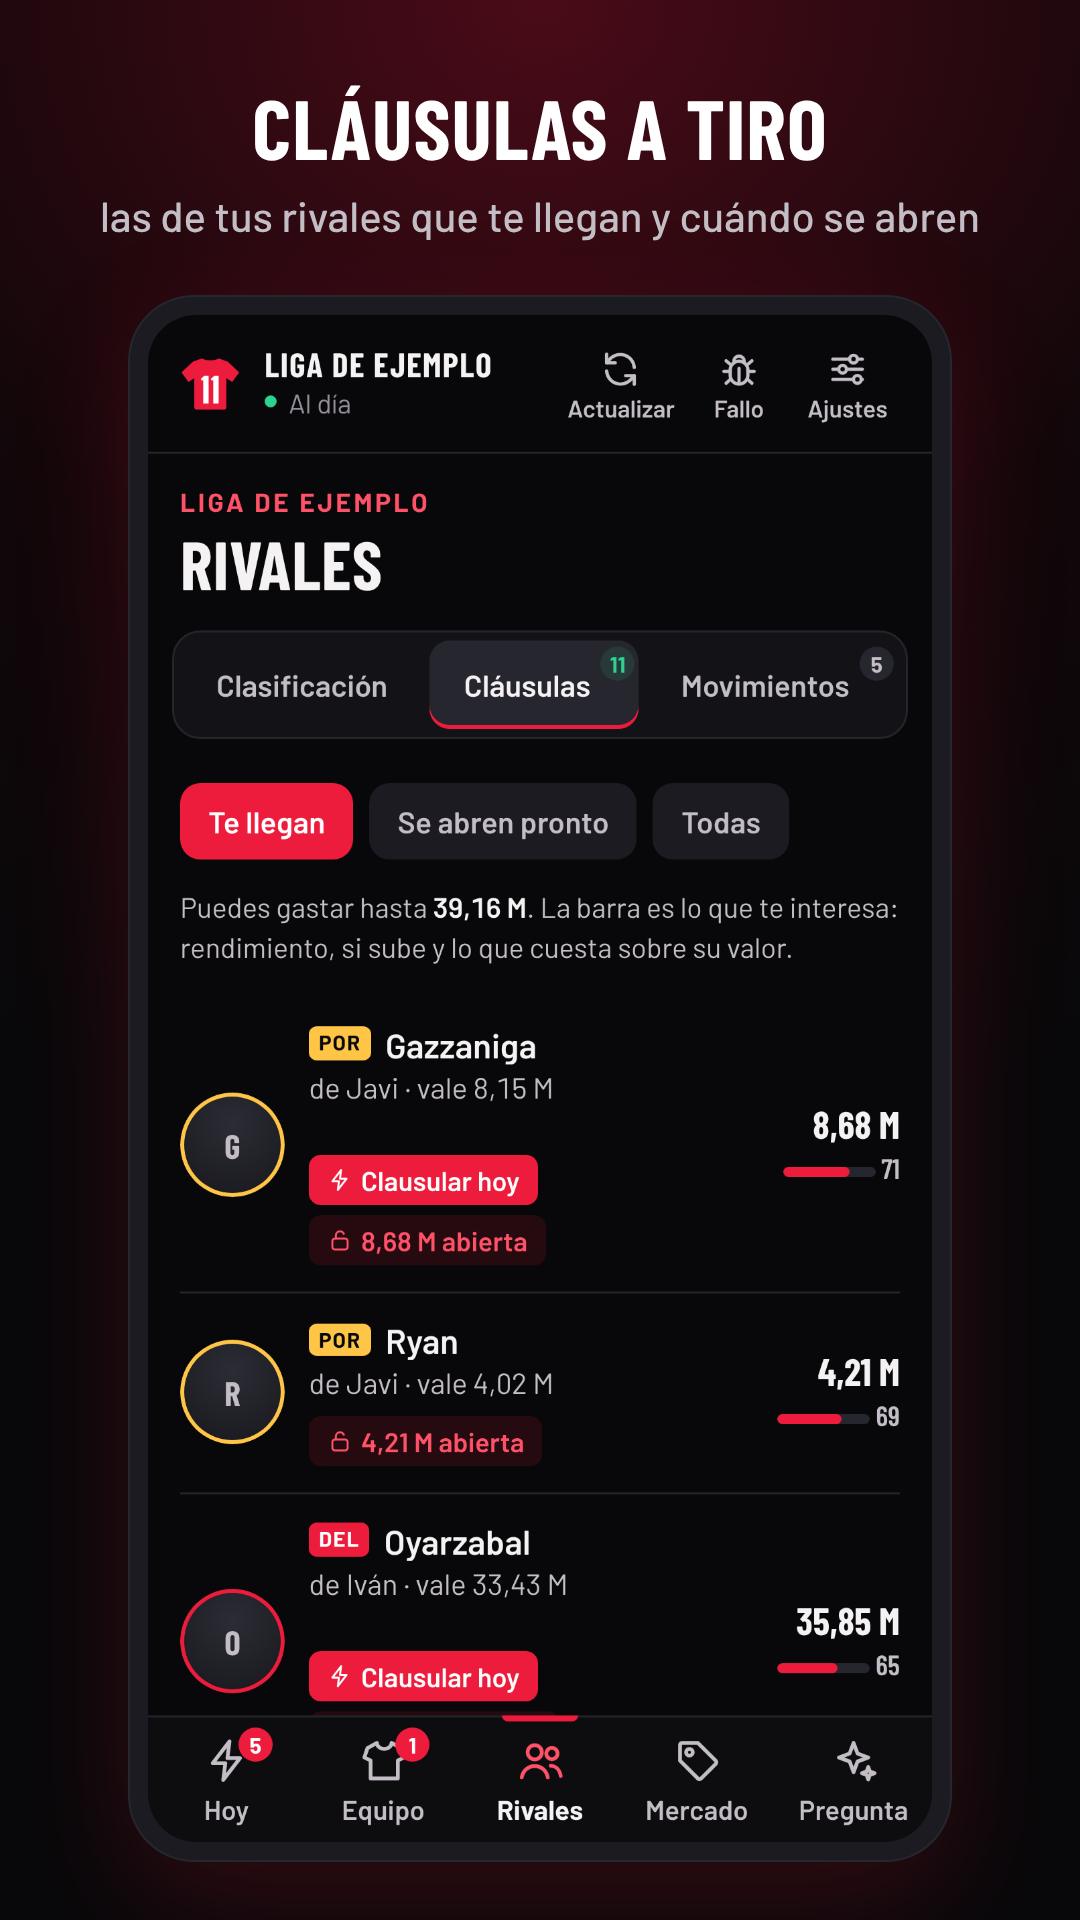
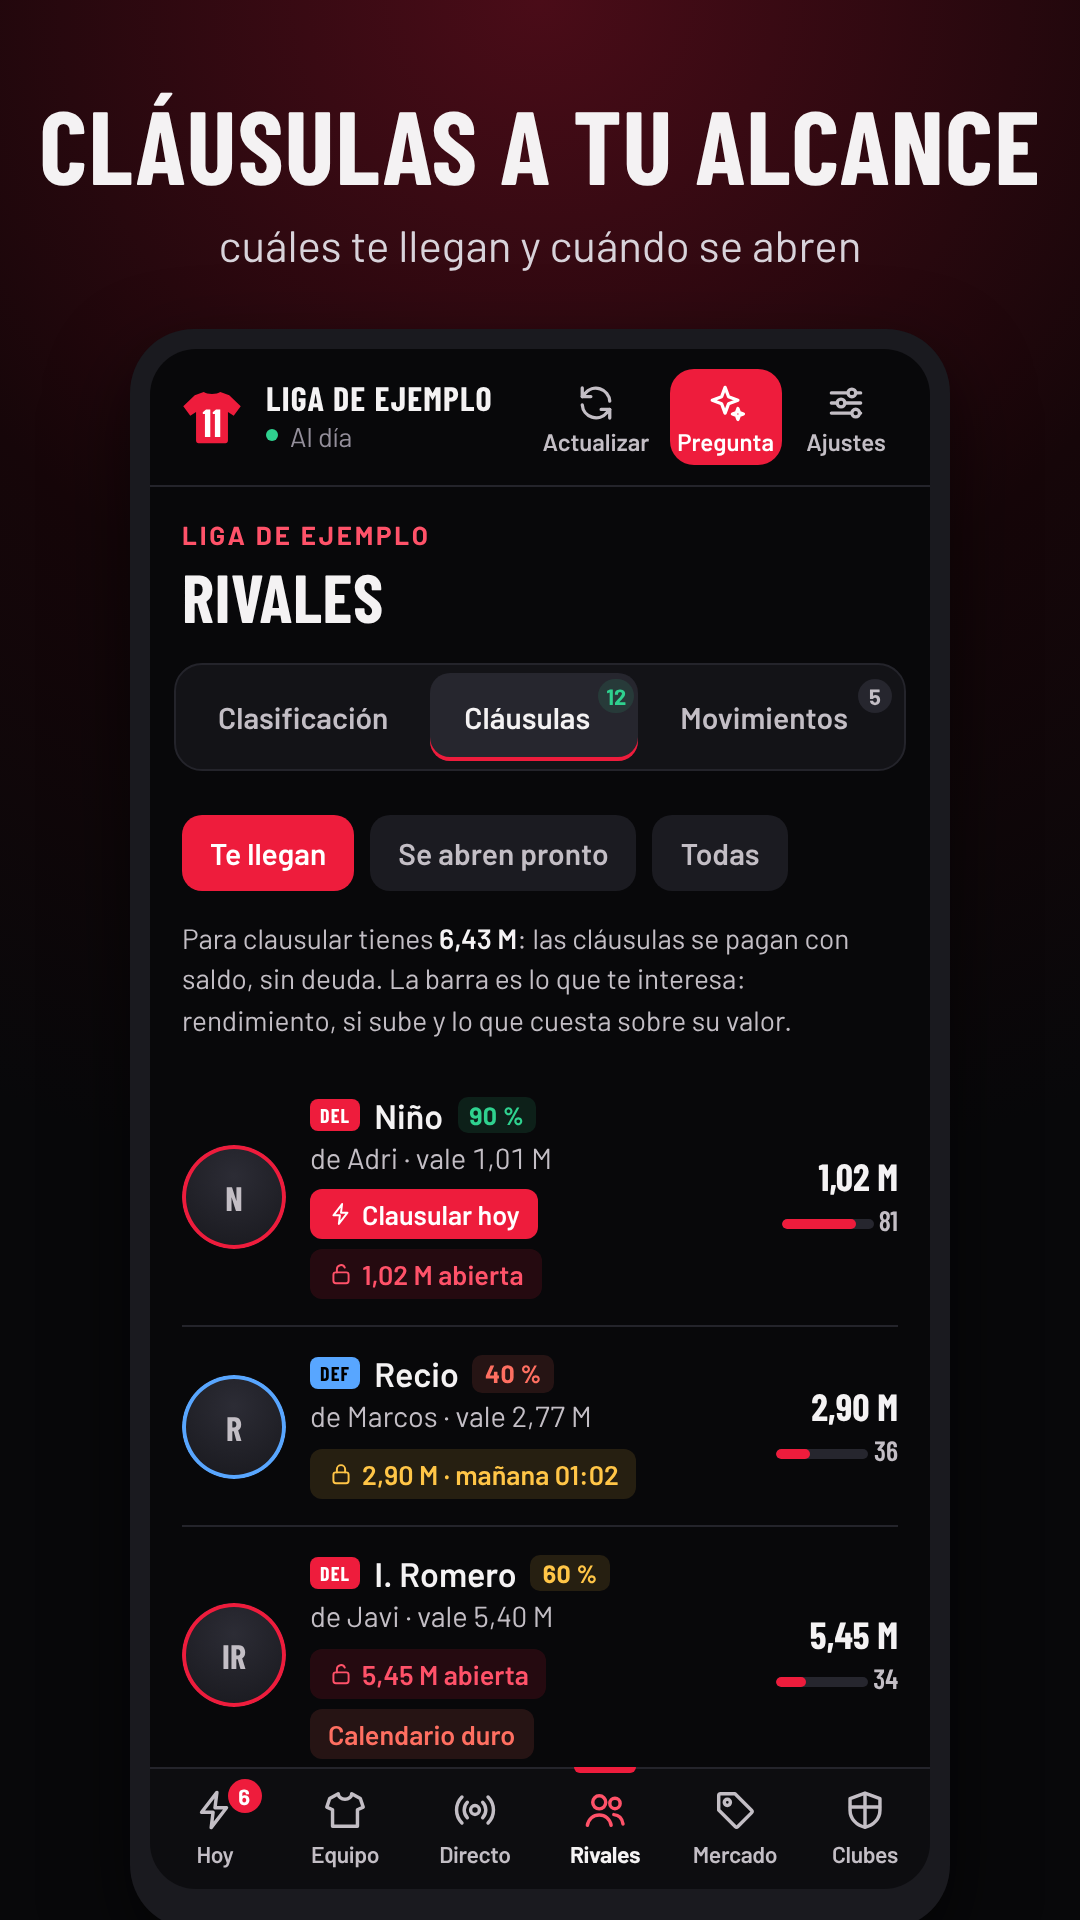
Play: capturas rehechas con la app de ahora (liga de ejemplo, sin fotos de LaLiga) y la de Directo
Claude-Session: https://claude.ai/code/session_01H9251QNULGv8vJoNXg3XmH

diff --git a/play/ficha.md b/play/ficha.md
@@ -68,9 +68,9 @@ Fantasy Manager es una app no oficial: no está hecha por LaLiga ni tiene relaci
 | --- | --- | --- |
 | Icono | icono-512.png | 512 × 512 |
 | Gráfico destacado | grafico-destacado-1024x500.png | 1024 × 500 |
-| Capturas de teléfono (8) | captura-1-hoy.png … captura-8-rivales.png | 1080 × 1920 |
+| Capturas de teléfono (8 como mucho) | captura-1-hoy, 2-plan, 3-clausulas, 4-mercado, 6-chat, 7-ficha, 8-rivales y 9-directo (.png) | 1080 × 1920 |
 
-Las capturas usan la liga de ejemplo (datos inventados).
+Las capturas usan la liga de ejemplo (datos inventados) y salen sin caras ni escudos de LaLiga (iniciales). Rehechas el 4 nov con la app de la 0.7a (siete pestañas, saludo a «Lucas»), menos la 6 (el chat de la IA, del 25 oct, con la barra de antes: rehacerla con una respuesta de verdad de la IA). La 5 (Equipo) queda de repuesto. El script que las hace no está en el repo: Playwright con la demo a 390 × 770 ×2 y un marco HTML con Barlow Condensed incrustada.
 
 ## Clasificación de contenido (cuestionario)
 
